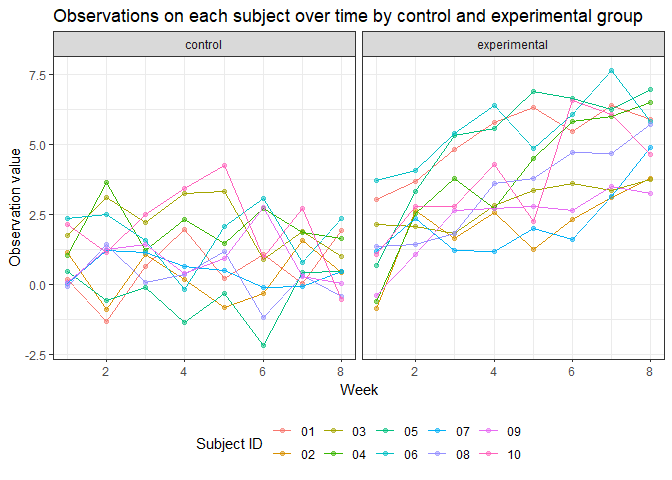
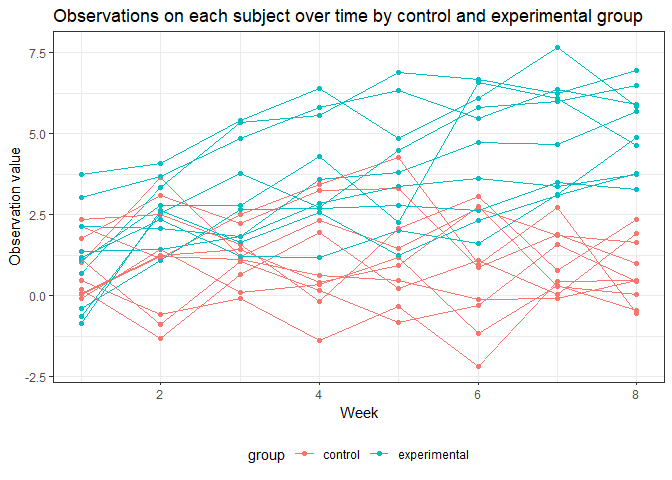
Change the spaghetti plot and add comments.

diff --git a/p8105_hw5_jy2944.md b/p8105_hw5_jy2944.md
@@ -44,24 +44,25 @@ study_df = tibble(file_names = list.files(path = "./data/problem1_data")) %>%
 
 ### Spaghetti plot
 
+Next we make a spaghetti plot to show observations on each subject over time.
+
 ``` r
 study_df %>% 
   mutate(group = recode(group, "con" = "control", "exp" = "experimental")) %>%
-  ggplot(aes(x = week, y = subject_data, color = subject_id, group = subject_id)) +
-  geom_point(alpha = 0.5) +
+  group_by(group, subject_id) %>% 
+  ggplot(aes(x = week, y = subject_data, color = group, type = subject_id)) + 
+  geom_point() +
   geom_line() +
-  facet_grid(. ~group) +
   labs(
     title = "Observations on each subject over time by control and experimental group",
     x = "Week",
-    y = "Observation value",
-    color = "Subject ID"
+    y = "Observation value"
   ) 
 ```
 
 ![](p8105_hw5_jy2944_files/figure-markdown_github/p1_spaghetti_plot-1.png)
 
-Comments:
+The experimental group appears to have an upward trend in observation value over weeks, while the control group appears to have a relatively steady or slight downward trend in observation value over weeks. In the overall aspect, the participants in the experimental group tend to have higher observation value than those in the control group.
 
 Problem 2
 =========
